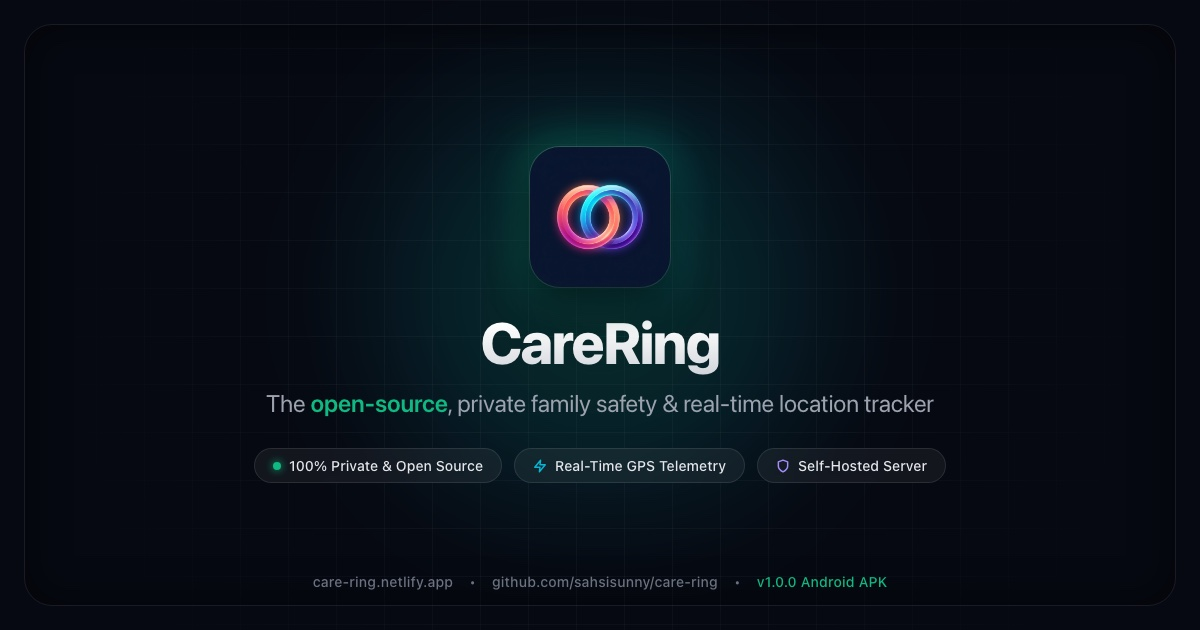
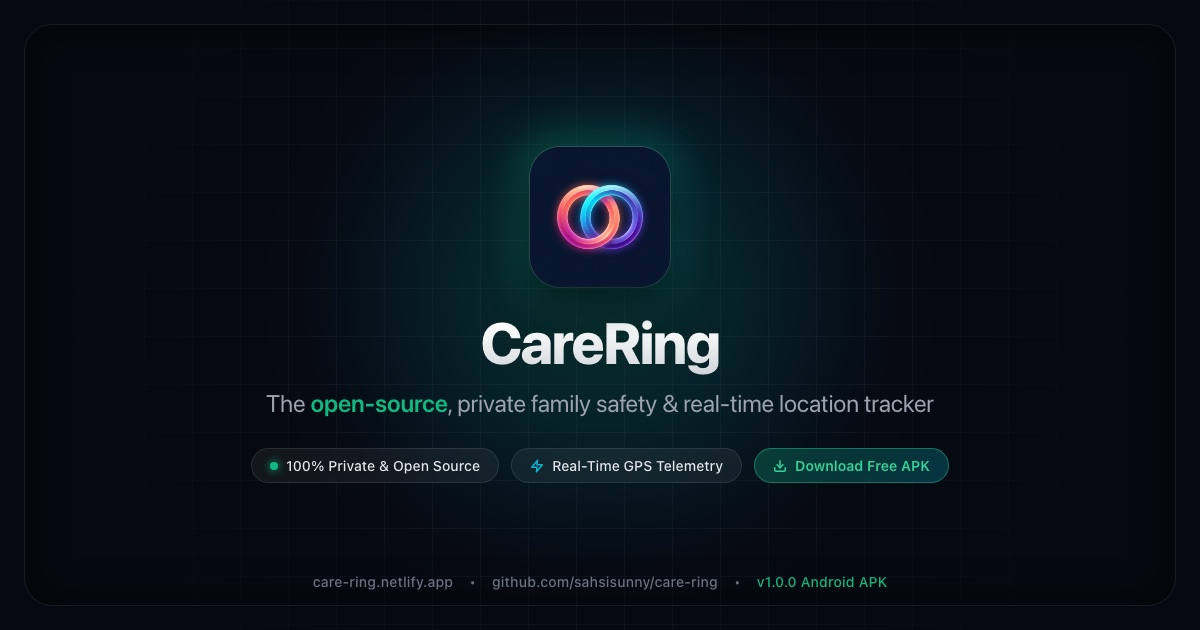
feat: update OG image badge to download free APK and refine site metadata

Changed region(s): [[0.4317, 0.6937, 0.8017, 0.7841], [0.2158, 0.7238, 0.4008, 0.754]]

diff --git a/landing/src/app/layout.tsx b/landing/src/app/layout.tsx
@@ -31,11 +31,11 @@ const SITE_URL =
 export const metadata: Metadata = {
   metadataBase: new URL(SITE_URL),
   title: {
-    default: "CareRing — Open-Source Family Safety & Real-Time Location Tracker",
+    default: "CareRing — Open-Source Family Safety Tracker",
     template: "%s | CareRing",
   },
   description:
-    "The private, modern, open-source family safety platform. Real-time GPS telemetry, smart geofencing, battery monitoring, driving alerts, and zero commercial data selling.",
+    "The private, open-source family safety platform. Real-time GPS telemetry, geofence alerts, battery stats, and zero data selling.",
   keywords: [
     "private family safety platform",
     "open source family safety",
@@ -66,9 +66,9 @@ export const metadata: Metadata = {
     locale: "en_US",
     url: SITE_URL,
     siteName: "CareRing",
-    title: "CareRing — Open-Source Family Safety & Real-Time Location Tracker",
+    title: "CareRing — Open-Source Family Safety Tracker",
     description:
-      "Private, battery-optimized, real-time family location tracking and instant circle safety alerts. 100% open source with zero telemetry selling.",
+      "Private, battery-optimized real-time family location tracking and instant circle safety alerts. 100% open source.",
     images: [
       {
         url: "/og-image.jpg",
@@ -76,7 +76,7 @@ export const metadata: Metadata = {
         width: 1200,
         height: 630,
         type: "image/jpeg",
-        alt: "CareRing — Open-Source Family Safety & Real-Time Location Tracker",
+        alt: "CareRing — Open-Source Family Safety Tracker",
       },
       {
         url: "/og-image.png",
@@ -84,7 +84,7 @@ export const metadata: Metadata = {
         width: 1200,
         height: 630,
         type: "image/png",
-        alt: "CareRing — Open-Source Family Safety & Real-Time Location Tracker",
+        alt: "CareRing — Open-Source Family Safety Tracker",
       },
     ],
   },
@@ -92,9 +92,9 @@ export const metadata: Metadata = {
     card: "summary_large_image",
     site: "@sahsisunny",
     creator: "@sahsisunny",
-    title: "CareRing — Open-Source Family Safety & Real-Time Location Tracker",
+    title: "CareRing — Open-Source Family Safety Tracker",
     description:
-      "The private, modern, open-source family safety app. Live GPS telemetry, geofence alerts, battery stats, and zero tracking brokers.",
+      "The private, open-source family safety app. Live GPS telemetry, geofence alerts, battery stats, and zero tracking.",
     images: [`${SITE_URL}/og-image.jpg`],
   },
   icons: {

diff --git a/landing/scripts/build-clean-og.js b/landing/scripts/build-clean-og.js
@@ -158,6 +158,13 @@ const htmlContent = `<!DOCTYPE html>
       box-shadow: 0 0 8px #10B981;
     }
 
+    .badge-cta {
+      background: linear-gradient(135deg, rgba(16, 185, 129, 0.25), rgba(6, 182, 212, 0.25));
+      border: 1px solid rgba(52, 211, 153, 0.4);
+      color: #34D399;
+      font-weight: 600;
+    }
+
     /* Bottom footer watermark */
     .footer-bar {
       position: absolute;
@@ -199,9 +206,9 @@ const htmlContent = `<!DOCTYPE html>
         <svg width="14" height="14" viewBox="0 0 24 24" fill="none" stroke="#06B6D4" stroke-width="2.5" stroke-linecap="round" stroke-linejoin="round"><polygon points="13 2 3 14 12 14 11 22 21 10 12 10 13 2"></polygon></svg>
         Real-Time GPS Telemetry
       </div>
-      <div class="badge">
-        <svg width="14" height="14" viewBox="0 0 24 24" fill="none" stroke="#A78BFA" stroke-width="2.5" stroke-linecap="round" stroke-linejoin="round"><path d="M12 22s8-4 8-10V5l-8-3-8 3v7c0 6 8 10 8 10z"></path></svg>
-        Self-Hosted Server
+      <div class="badge badge-cta">
+        <svg width="14" height="14" viewBox="0 0 24 24" fill="none" stroke="#34D399" stroke-width="2.5" stroke-linecap="round" stroke-linejoin="round"><path d="M21 15v4a2 2 0 0 1-2 2H5a2 2 0 0 1-2-2v-4"></path><polyline points="7 10 12 15 17 10"></polyline><line x1="12" y1="15" x2="12" y2="3"></line></svg>
+        Download Free APK
       </div>
     </div>
   </div>

diff --git a/landing/scripts/og-template.html b/landing/scripts/og-template.html
@@ -149,6 +149,13 @@
       box-shadow: 0 0 8px #10B981;
     }
 
+    .badge-cta {
+      background: linear-gradient(135deg, rgba(16, 185, 129, 0.25), rgba(6, 182, 212, 0.25));
+      border: 1px solid rgba(52, 211, 153, 0.4);
+      color: #34D399;
+      font-weight: 600;
+    }
+
     /* Bottom footer watermark */
     .footer-bar {
       position: absolute;
@@ -190,9 +197,9 @@
         <svg width="14" height="14" viewBox="0 0 24 24" fill="none" stroke="#06B6D4" stroke-width="2.5" stroke-linecap="round" stroke-linejoin="round"><polygon points="13 2 3 14 12 14 11 22 21 10 12 10 13 2"></polygon></svg>
         Real-Time GPS Telemetry
       </div>
-      <div class="badge">
-        <svg width="14" height="14" viewBox="0 0 24 24" fill="none" stroke="#A78BFA" stroke-width="2.5" stroke-linecap="round" stroke-linejoin="round"><path d="M12 22s8-4 8-10V5l-8-3-8 3v7c0 6 8 10 8 10z"></path></svg>
-        Self-Hosted Server
+      <div class="badge badge-cta">
+        <svg width="14" height="14" viewBox="0 0 24 24" fill="none" stroke="#34D399" stroke-width="2.5" stroke-linecap="round" stroke-linejoin="round"><path d="M21 15v4a2 2 0 0 1-2 2H5a2 2 0 0 1-2-2v-4"></path><polyline points="7 10 12 15 17 10"></polyline><line x1="12" y1="15" x2="12" y2="3"></line></svg>
+        Download Free APK
       </div>
     </div>
   </div>
